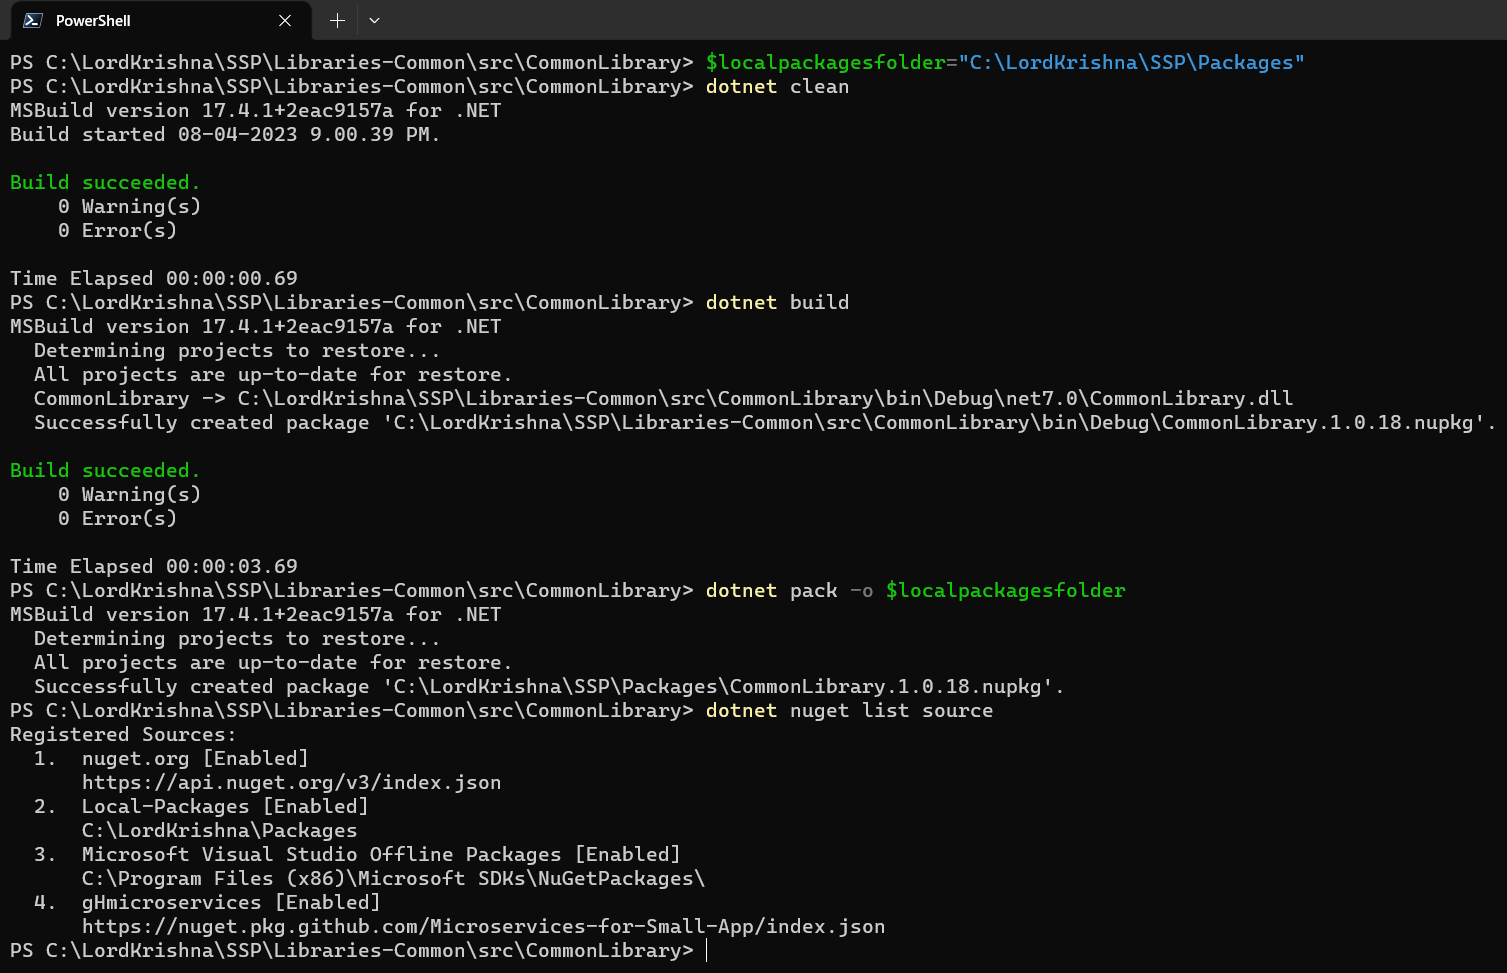
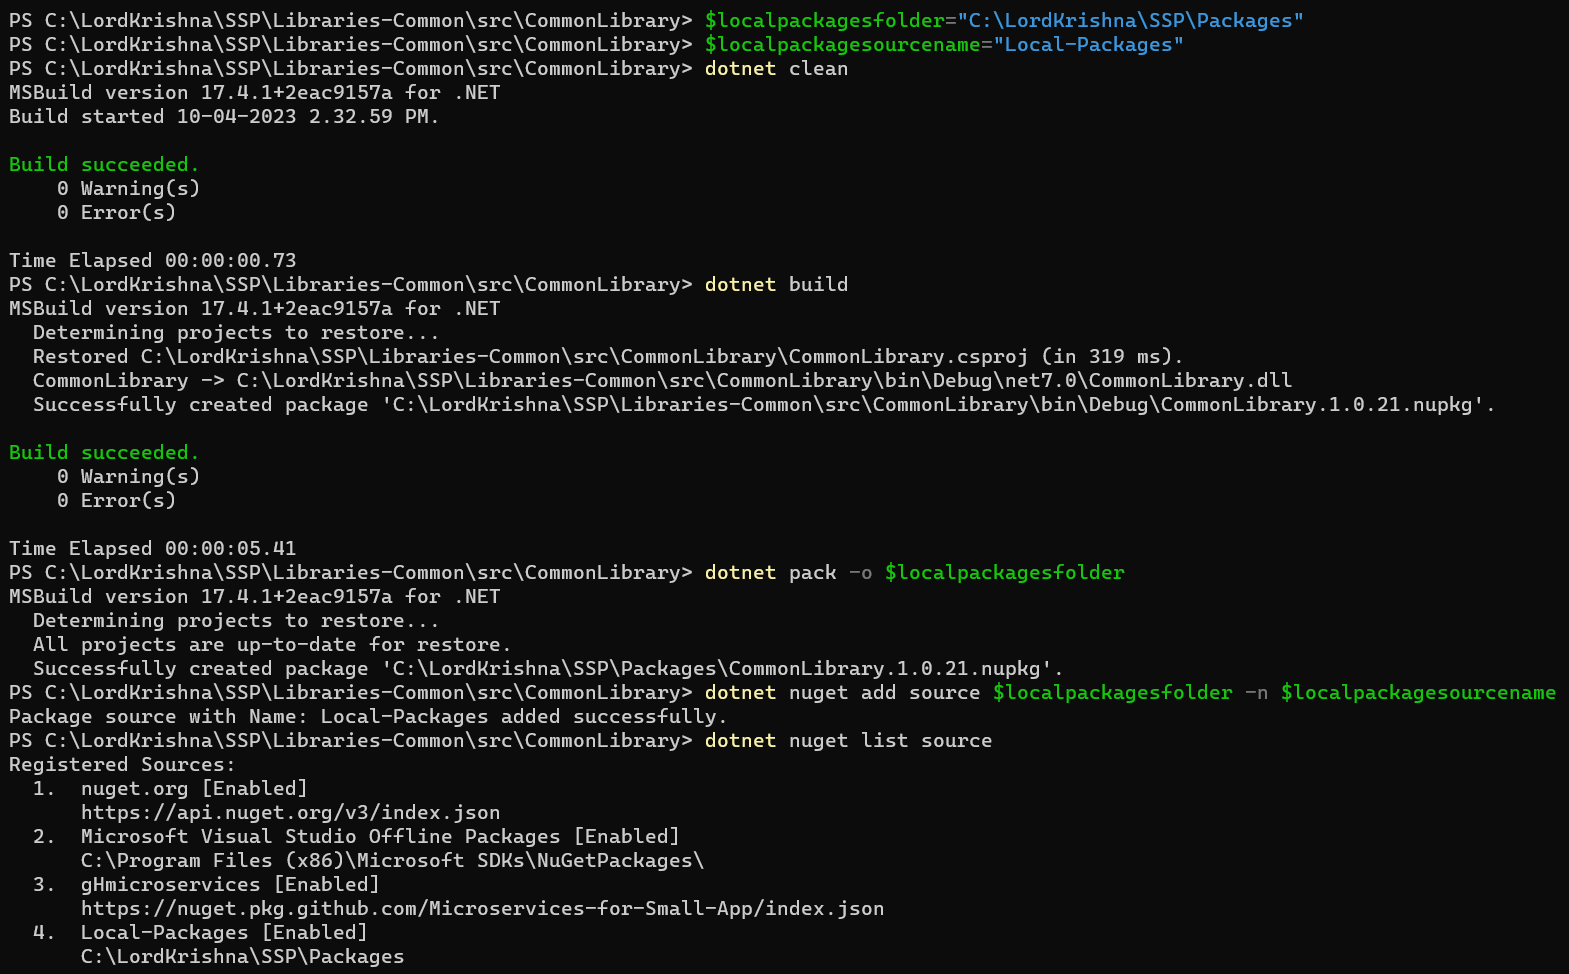
Swamy/08apr work (#3)
* Update NuGetPackages.md

* Update NuGetPackages.md

* Local Folder Packages

* Update NuGetPackages.md

* Update NuGetPackages.md

* Update NuGetPackages.md

* Update the Documentation

Changed region(s): [[0.0, 0.0, 1.0, 1.0], [0.8109, 0.7091, 0.998, 0.74], [0.9356, 0.4317, 0.9668, 0.4625]]

diff --git a/Documentation/NuGetPackages.md b/Documentation/NuGetPackages.md
@@ -2,13 +2,26 @@
 
 ## 1. Create and Publish NuGet packages to Local Folder using dotnet CLI and PowerShell
 
-### 1.1. Creating required Variables using PowerShell Windows Terminal
+### 1.1. Create required Variables using PowerShell Windows Terminal
 
 ```powershell
 $localpackagesfolder="C:\LordKrishna\SSP\Packages"
+$localpackagesourcename="Local-Packages"
 ```
 
 ### 1.2. Publishing the packages to local folder using PowerShell Windows Terminal
+
+> 1. Navigate to the folder where the `YourLibrary`.csproj file is present.
+> 1. In this case, it is the `C:\LordKrishna\SSP\Libraries-Common\src\CommonLibrary` folder where the `YourLibrary`.csproj file is present.
+> 1. Update the `Version`, and `AssemblyVersion` in the `YourLibrary`.csproj file.
+> 1. Run the following `dotnet` commands.
+
+```xml
+<PropertyGroup>
+    <Version>1.0.18</Version>
+    <AssemblyVersion>1.18</AssemblyVersion>
+</PropertyGroup>
+```
 
 ```powershell
 dotnet clean
@@ -16,19 +29,46 @@ dotnet build
 dotnet pack -o $localpackagesfolder
 ```
 
-![NuGet Packages Local Folder |150x150](./Images/NuGetPackages/NuGetPackages_LocalFolder.PNG)
-
 ## 2. Add the Local NuGet package folder as Package Source
 
 ### 2.1. Adding local packages folder as NuGet source using PowerShell Windows Terminal
 
+> 1. Run the following `dotnet` commands.
+
 ```powershell
-dotnet nuget add source $localpackagesfolder -n Local-Packages
+dotnet nuget add source $localpackagesfolder -n $localpackagesourcename
 ```
+
+### 2.2. Verify local packages folder is added as NuGet source
+
+> 1. Run the following `dotnet` commands, to ensure that `$localpackagesourcename` is added as NuGet package source.
+> 1. Run the following `dotnet nuget remove source $localpackagesourcename` command, to remove NuGet package source.
+
+```powershell
+dotnet nuget list source
+```
+
+![NuGet Packages Local Folder |150x150](./Images/NuGetPackages/NuGetPackages_LocalFolder.PNG)
 
 ## 3. Create and Publish NuGet packages to GitHub Packages using dotnet CLI and PowerShell
 
 ### 3.1. Creating required Variables using PowerShell Windows Terminal
+
+```powershell
+$localpackagesfolder="C:\LordKrishna\SSP\Packages"
+$version="1.0.20"
+$owner="Microservices-for-Small-App"
+$username="vishipayyallore"
+$package_name="CommonLibrary"
+$gh_pat="ghp_Your_GitHib_Classic_PAT"
+$gh_packages="gHmicroservices"
+
+dotnet clean
+dotnet build -c Release
+dotnet pack --configuration Release -o $localpackagesfolder
+
+dotnet nuget push $localpackagesfolder\$package_name.$version.nupkg --source $gh_packages --api-key $gh_pat
+```
 
 ```powershell
 $owner="Microservices-for-Small-App"
